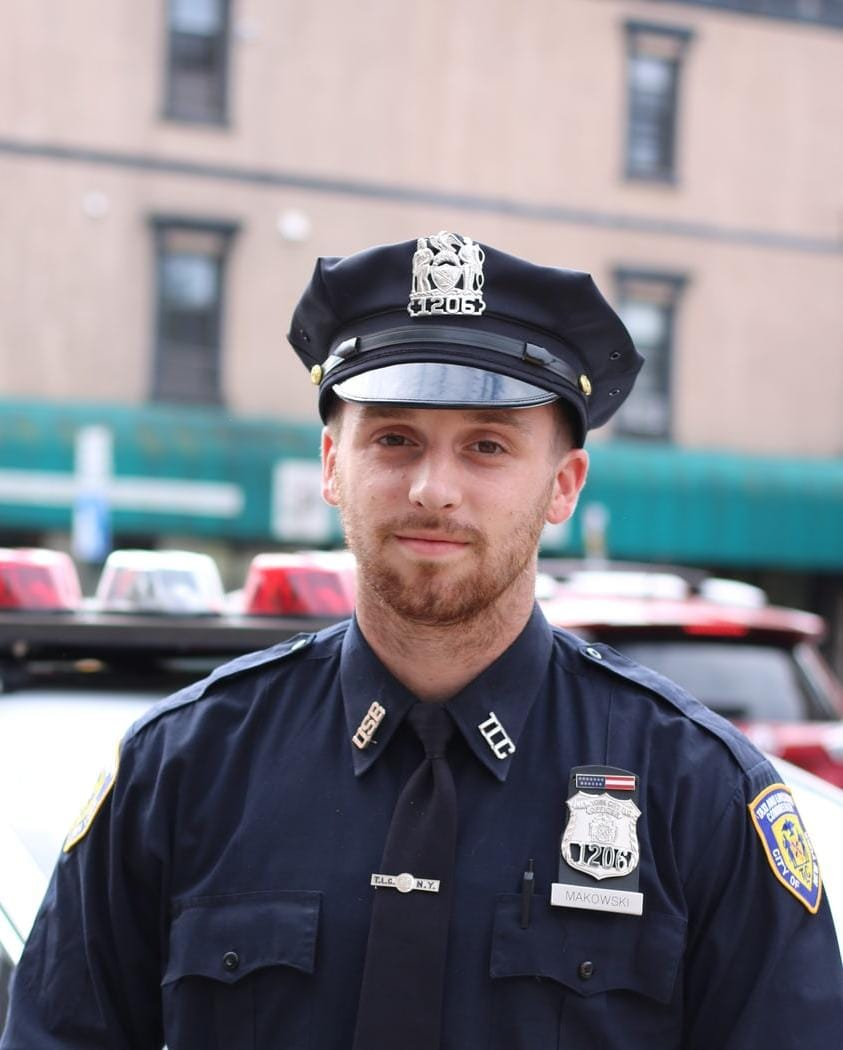
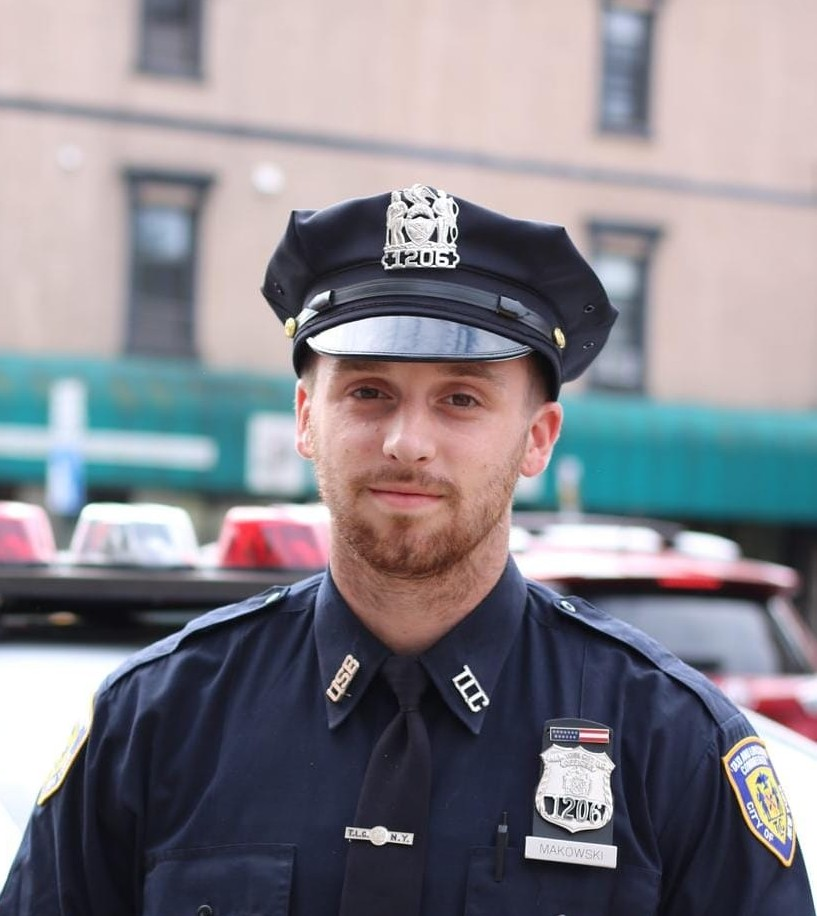
final

diff --git a/yshgg86.html b/yshgg86.html
@@ -42,7 +42,7 @@
                 </div>
 
                 <div class="char-img-r">
-                    <img src="./assets/img/com.png" alt="" />
+                    <img src="./assets/img/chief.jpg" alt="" />
                 </div>
             </div>
         </div>
@@ -75,7 +75,7 @@
                 </div>
 
                 <div class="char-img-l">
-                    <img src="./assets/img/com1.webp" alt="" />
+                    <img src="./assets/img/player.jpg" alt="" />
                 </div>
             </div>
         </div>
@@ -94,7 +94,7 @@
                 </div>
 
                 <div class="char-img-r">
-                    <img src="./assets/img/com.png" alt="" />
+                    <img src="./assets/img/chief.jpg" alt="" />
                 </div>
             </div>
         </div>
@@ -113,7 +113,7 @@
                         </div>
         
                         <div class="char-img-r">
-                            <img src="./assets/img/com.png" alt="" />
+                            <img src="./assets/img/chief.jpg" alt="" />
                         </div>
                     </div>
                 </div>

diff --git a/iwoql328T.html b/iwoql328T.html
@@ -14,7 +14,7 @@
 
     <div class="container">
         <div class="embed-responsive embed-responsive-16by9">
-            <iframe width="560" height="315" src="https://www.youtube.com/embed/ERSfUCUsmOs" title="YouTube video player" frameborder="0" allow="accelerometer; autoplay; clipboard-write; encrypted-media; gyroscope; picture-in-picture" allowfullscreen></iframe>
+            <iframe width="560" height="315" src="https://www.youtube.com/embed/oaaJONFaTfw" title="YouTube video player" frameborder="0" allow="accelerometer; autoplay; clipboard-write; encrypted-media; gyroscope; picture-in-picture" allowfullscreen></iframe>
 
           </div>
 
